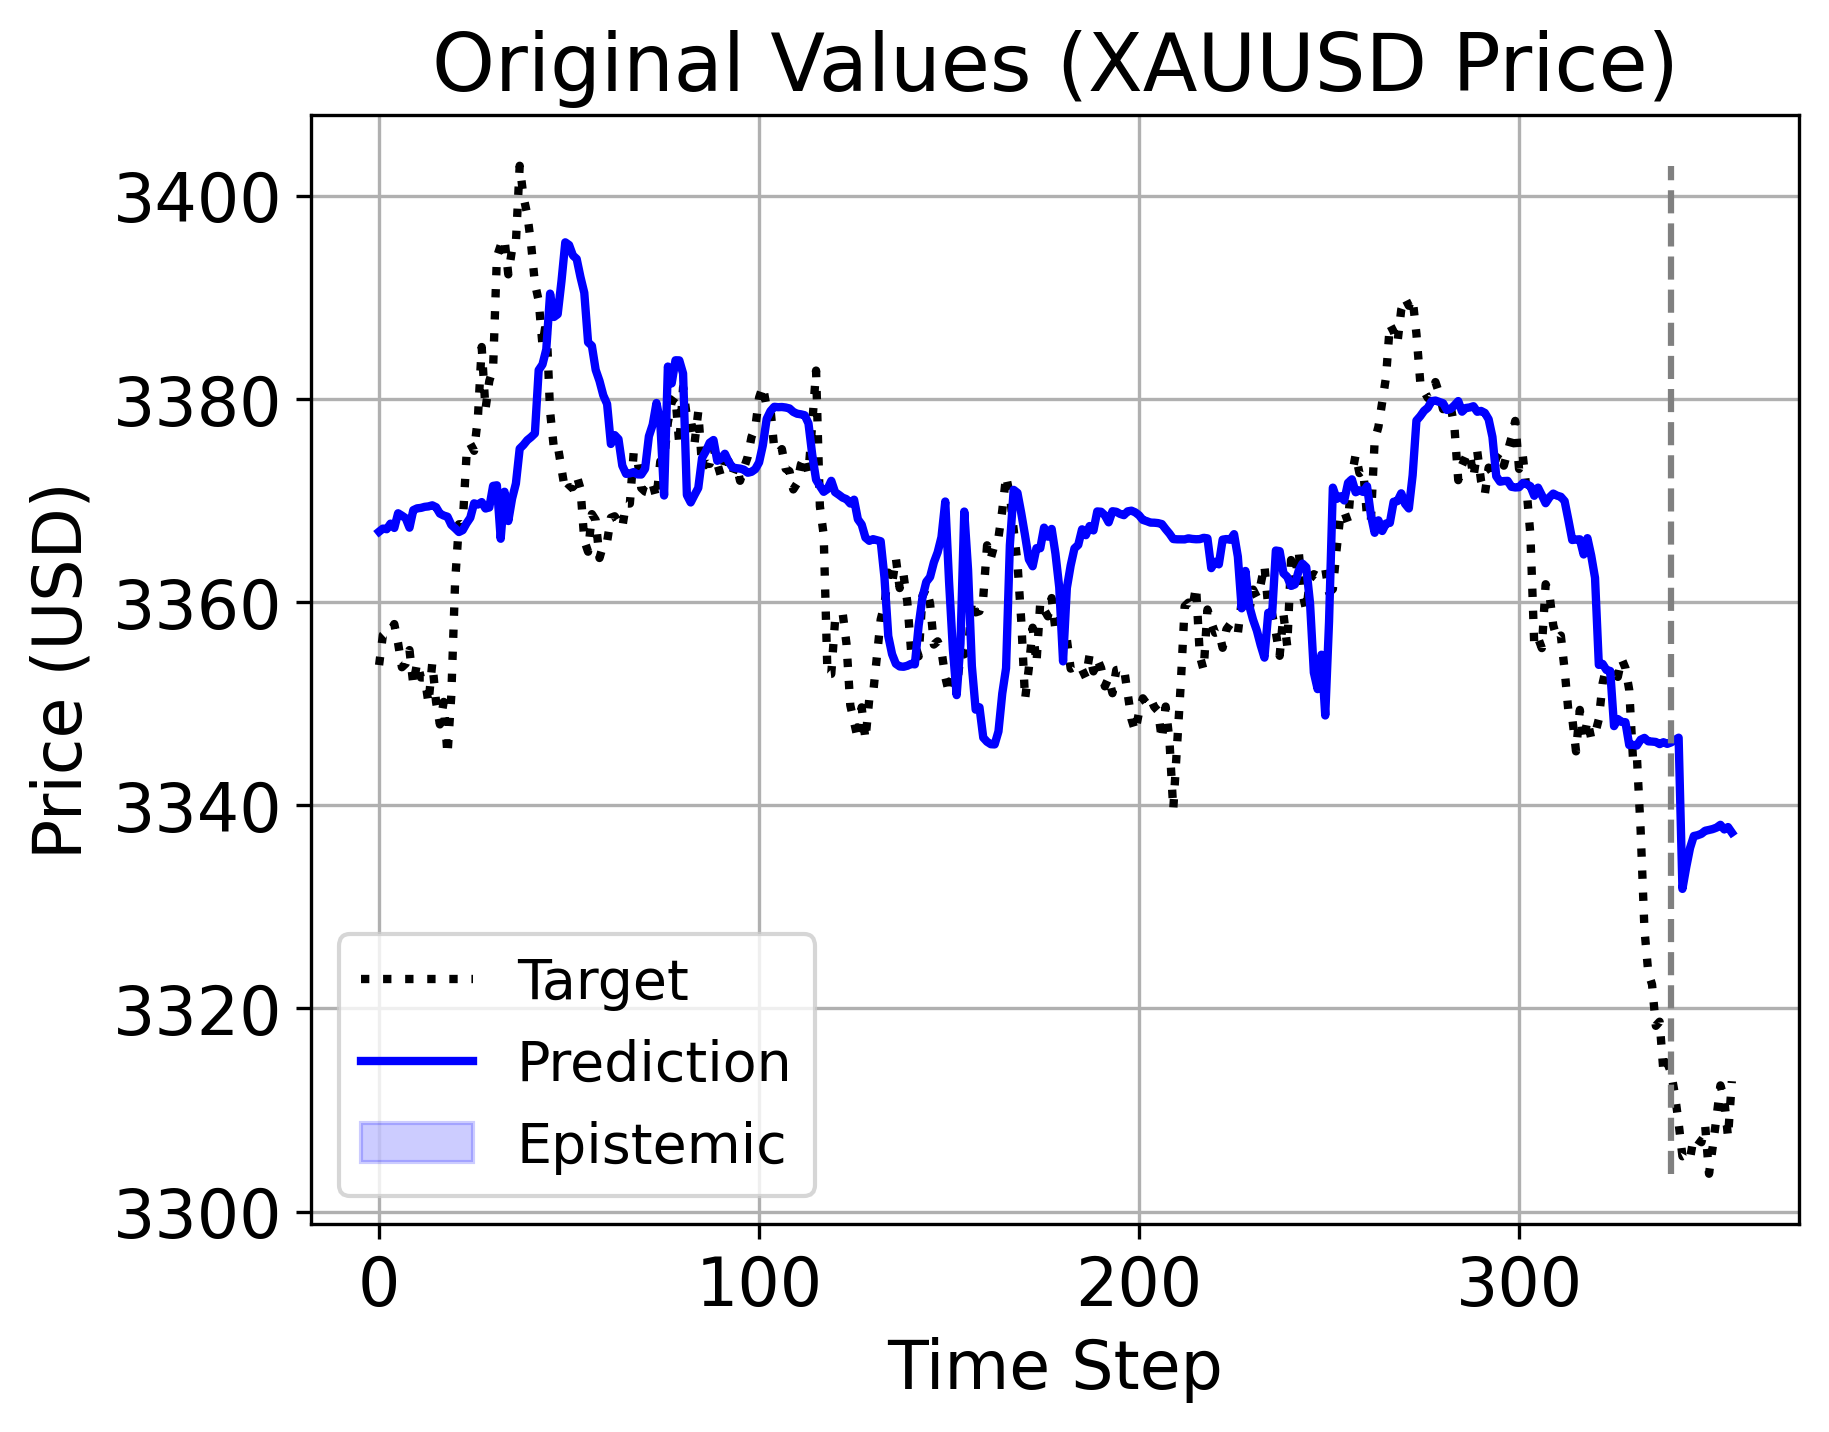
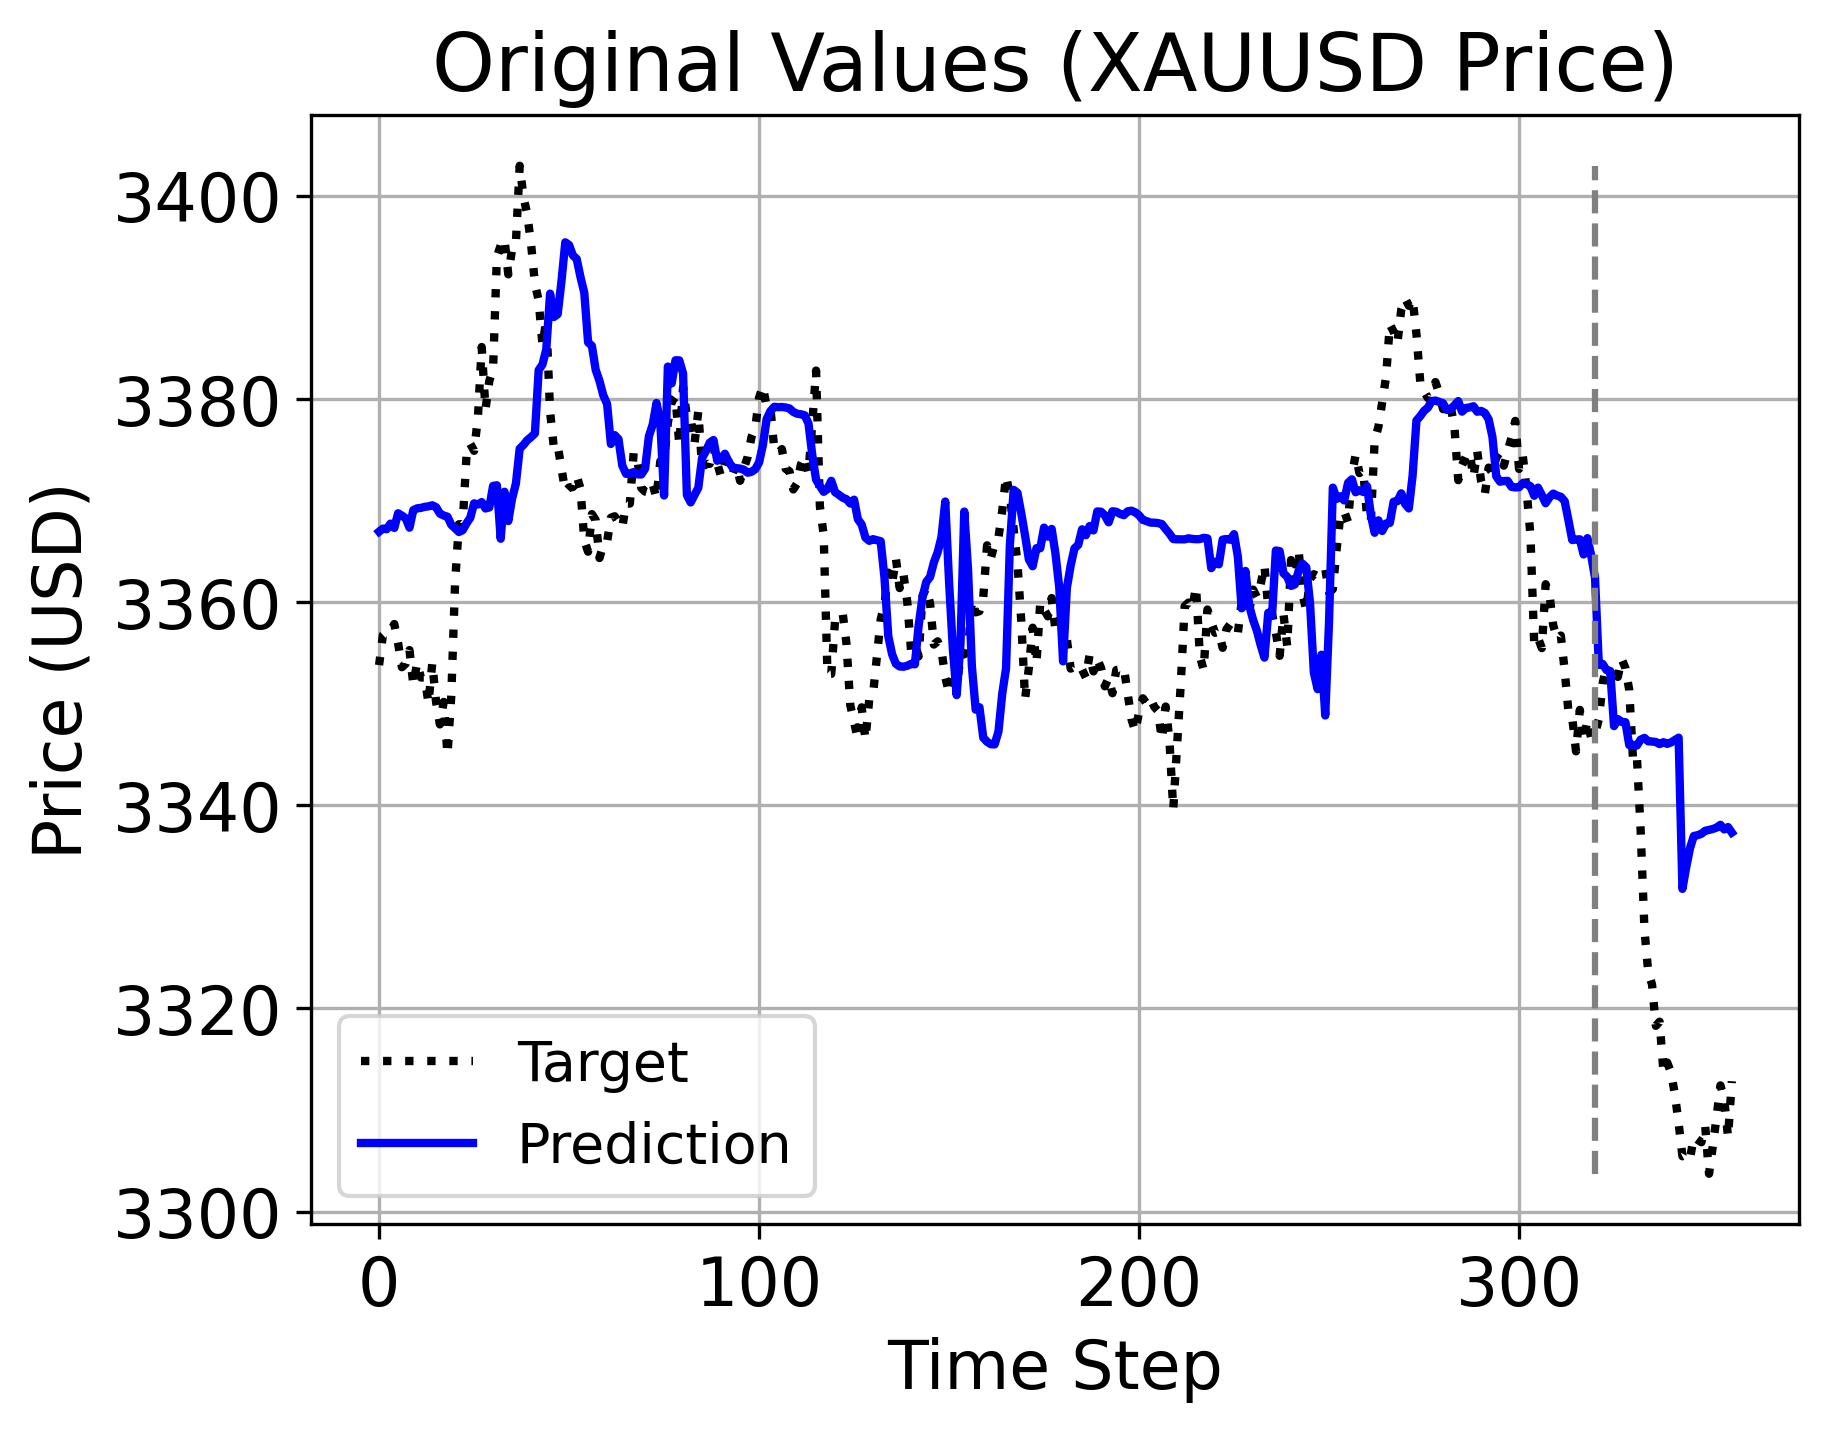
real data plotting

Changed region(s): [[0.187, 0.6453, 0.4363, 0.8296], [0.187, 0.6453, 0.2493, 0.7067]]

diff --git a/utilFiles/util_plot_all.py b/utilFiles/util_plot_all.py
@@ -279,7 +279,7 @@ def plot_functions_alea_ep_1d_with_original(
     plt.plot(x_points, pred_y_orig, "b", linewidth=2, label="Prediction")
     
     # Plot vertical line at x=340
-    plt.vlines(x=300, ymin=target_y_orig.min(), ymax=target_y_orig.max(), linestyles='--', colors='gray')
+    plt.vlines(x=320, ymin=target_y_orig.min(), ymax=target_y_orig.max(), linestyles='--', colors='gray')
 
     
     plt.title("Original Values (XAUUSD Price)")
